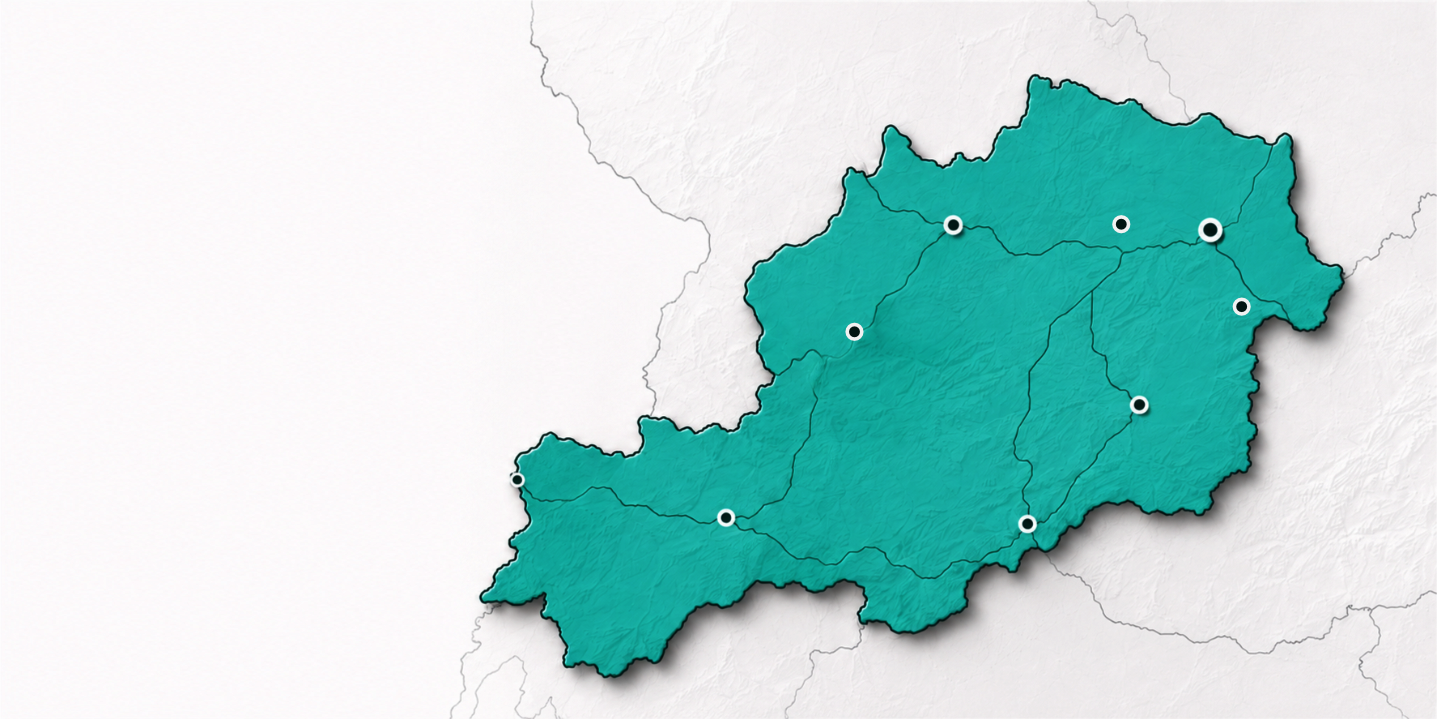
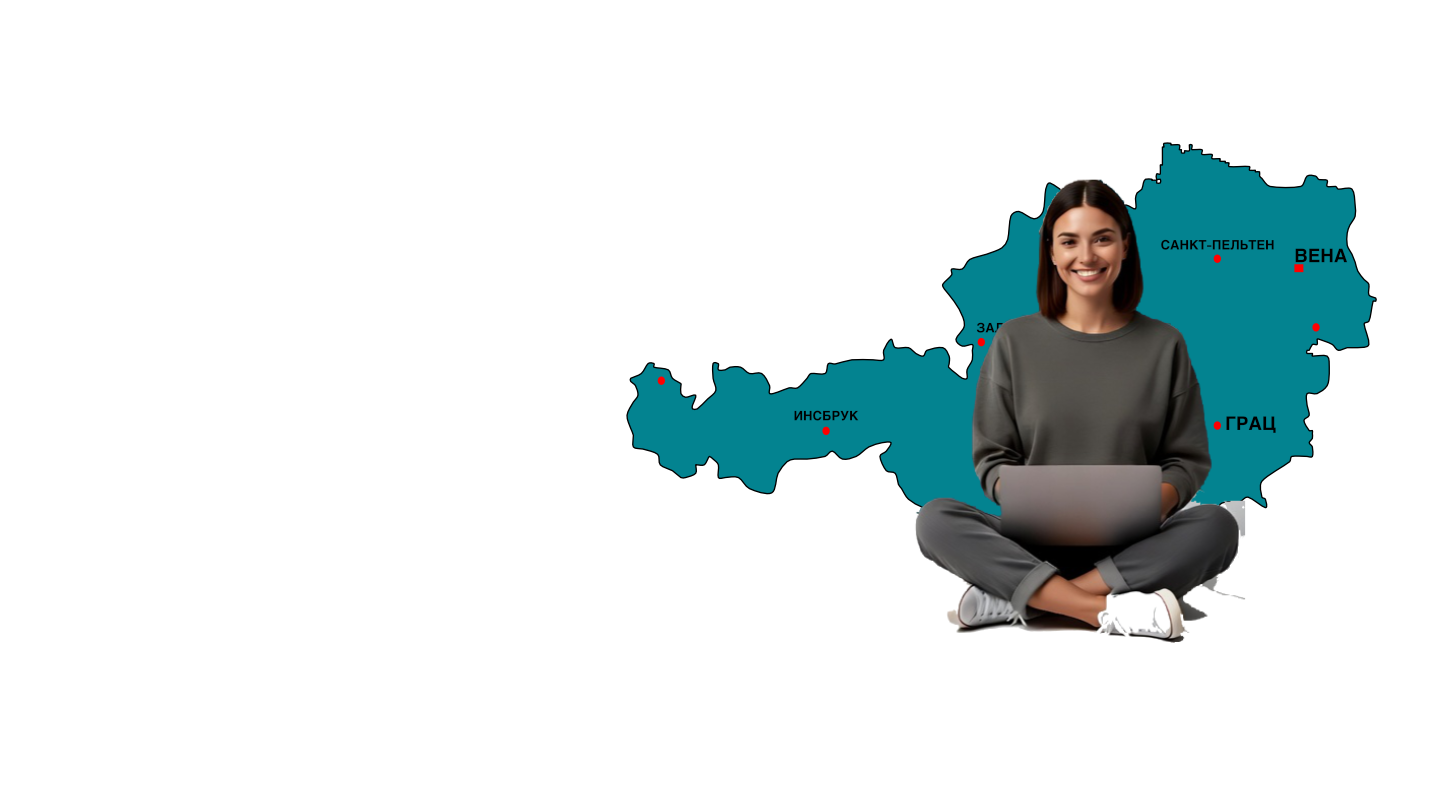
jh
jhg

diff --git a/src/app/page.tsx b/src/app/page.tsx
@@ -211,66 +211,55 @@ export default function HomePage() {
         <div style={{ maxWidth: 'min(700px, 50vw)', width: '100%' }}>
 
           {/* LEFT — text */}
-          <div style={{ flex: '0 0 460px', display: 'flex', flexDirection: 'column' as const, justifyContent: 'center', gap: 0 }}>
+          <div style={{ flex: '0 0 460px', display: 'flex', flexDirection: 'column' as const, justifyContent: 'center', gap: 0, height: '100%', paddingTop: '8px' }}>
 
             {/* Badge */}
             <div style={{ display: 'inline-block', padding: '5px 14px', borderRadius: 999, background: 'rgba(3,131,144,0.1)', border: '1px solid rgba(3,131,144,0.25)', fontSize: 10, fontWeight: 700, letterSpacing: '2px', textTransform: 'uppercase' as const, color: '#038390', marginBottom: 20, width: 'fit-content' }}>
-              Твій цифровий помічник в Австрії
+              Твоя автоматизована цифрова платформа
             </div>
 
-            {/* Logo */}
-            <div style={{ marginBottom: 16 }}>
-              {/* eslint-disable-next-line @next/next/no-img-element */}
-              <img
-                src="/logos/qlixa-text-dark.svg"
-                alt="QLIXA"
-                style={{ height: 48, width: 'auto', display: 'block' }}
-              />
-            </div>
+            {/* H1 */}
+            <h1 style={{ fontFamily: 'DM Serif Display, serif', fontSize: 'clamp(22px,2.4vw,32px)', fontWeight: 400, color: '#1A1A1A', lineHeight: 1.25, letterSpacing: '-0.5px', marginBottom: 20 }}>
+              Податки та бізнес в Австрії —{' '}
+              <br/>
+              <span style={{ display: 'inline-block', background: '#1A1A1A', color: '#ffffff', borderRadius: 8, padding: '3px 12px', fontStyle: 'italic' }}>
+                тепер без Steuerberater
+              </span>
+            </h1>
 
-            {/* Subheading */}
-            <p style={{ fontSize: 'clamp(15px,1.4vw,19px)', color: '#1A1A1A', lineHeight: 1.5, marginBottom: 4, fontWeight: 400 }}>
-              Податки, звіти та бізнес-процеси —
-            </p>
-            <p style={{ fontSize: 'clamp(15px,1.4vw,19px)', color: '#038390', lineHeight: 1.5, marginBottom: 24, fontWeight: 700 }}>
-              простою мовою.
-            </p>
-
-            {/* CTA buttons */}
-            <div style={{ display: 'flex', gap: 12, flexWrap: 'wrap' as const, marginBottom: 28 }}>
-              <a href="/pricing" style={{ display: 'inline-flex', alignItems: 'center', gap: 8, padding: '12px 24px', background: '#038390', color: '#fff', borderRadius: 12, fontSize: 14, fontWeight: 700, textDecoration: 'none', boxShadow: '3px 3px 0 #026B76' }}>
-                Тарифи →
-              </a>
-              <a href="#demo" style={{ display: 'inline-flex', alignItems: 'center', gap: 8, padding: '12px 24px', background: 'transparent', color: '#038390', borderRadius: 12, fontSize: 14, fontWeight: 700, textDecoration: 'none', border: '1.5px solid #038390' }}>
-                Як це працює
-              </a>
-            </div>
-
-            {/* Checklist */}
-            <div style={{ display: 'grid', gridTemplateColumns: '1fr 1fr', gap: '8px 16px', marginBottom: 28 }}>
-              {[
-                { text: 'Для працівників за наймом', href: '/for/naymanyy' },
-                { text: 'Для малого бізнесу', href: '/for/biznes' },
-                { text: 'Для самозайнятих', href: '/for/frilanser' },
-                { text: 'Капітальні та закордонні доходи', href: '/for/samostiynyy' },
-              ].map((item, i) => (
-                <Link key={i} href={item.href} style={{ display: 'flex', alignItems: 'flex-start', gap: 8, textDecoration: 'none', color: '#1A1A1A', fontSize: 13, fontWeight: 500, lineHeight: 1.4 }}
-                  onMouseEnter={e => (e.currentTarget as HTMLElement).style.color = '#038390'}
-                  onMouseLeave={e => (e.currentTarget as HTMLElement).style.color = '#1A1A1A'}>
-                  <div style={{ width: 18, height: 18, borderRadius: '50%', background: '#038390', display: 'flex', alignItems: 'center', justifyContent: 'center', flexShrink: 0, marginTop: 1 }}>
-                    <svg width="9" height="7" viewBox="0 0 9 7" fill="none">
-                      <path d="M1 3.5L3 5.5L8 1" stroke="white" strokeWidth="1.5" strokeLinecap="round" strokeLinejoin="round"/>
-                    </svg>
-                  </div>
-                  {item.text}
-                </Link>
+            {/* Audience pills */}
+            <div style={{ display: 'flex', flexWrap: 'wrap' as const, gap: 8, marginBottom: 24 }}>
+              {['Самозайняті', 'Малий бізнес', 'Наймані працівники'].map((tag) => (
+                <span key={tag} style={{ fontSize: 12, fontWeight: 600, color: '#038390', border: '1px solid rgba(3,131,144,0.3)', borderRadius: 999, padding: '5px 14px', background: 'rgba(3,131,144,0.05)' }}>
+                  {tag}
+                </span>
               ))}
             </div>
 
-            {/* Trust badge */}
-            <div style={{ display: 'flex', alignItems: 'center', gap: 10, padding: '10px 16px', background: 'rgba(255,255,255,0.7)', borderRadius: 12, border: '1px solid rgba(3,131,144,0.12)', width: 'fit-content' }}>
-              <span style={{ fontSize: 18 }}>🇦🇹</span>
-              <span style={{ fontSize: 12, fontWeight: 600, color: '#595959' }}>Більше <strong style={{ color: '#1A1A1A' }}>1 200</strong> клієнтів в Австрії</span>
+            {/* One cabinet */}
+            <p style={{ fontSize: 'clamp(13px,1.2vw,15px)', fontWeight: 700, color: '#1A1A1A', marginBottom: 12, lineHeight: 1.4 }}>
+              Замість купи сервісів — один кабінет:
+            </p>
+
+            {/* Feature pills */}
+            <div style={{ display: 'flex', flexWrap: 'wrap' as const, gap: 6, marginBottom: 20 }}>
+              {['Декларації', 'ПДВ', 'Повернення податку', 'Рахунки', 'Витрати', 'Склад', 'Клієнти', 'Фінансові звіти'].map((item) => (
+                <span key={item} style={{ fontSize: 12, fontWeight: 600, color: '#1A1A1A', border: '1.5px solid rgba(3,131,144,0.35)', borderRadius: 999, padding: '5px 14px', background: 'rgba(255,255,255,0.95)', boxShadow: '0 1px 4px rgba(0,0,0,0.08)' }}>
+                  {item}
+                </span>
+              ))}
+            </div>
+
+            {/* Tagline */}
+            <p style={{ fontSize: 'clamp(13px,1.2vw,15px)', color: '#1A1A1A', marginBottom: 28, fontWeight: 600, lineHeight: 1.5 }}>
+              ✓ Автоматизація · Контроль · Економія часу · Зрозуміло
+            </p>
+
+            {/* CTA */}
+            <div>
+              <a href="/pricing" style={{ display: 'inline-flex', alignItems: 'center', gap: 8, padding: '14px 32px', background: '#038390', color: '#fff', borderRadius: 12, fontSize: 15, fontWeight: 800, textDecoration: 'none', boxShadow: '0 4px 16px rgba(3,131,144,0.45), 3px 3px 0 #026B76', letterSpacing: '0.2px' }}>
+                Вибрати свій тариф →
+              </a>
             </div>
 
           </div>